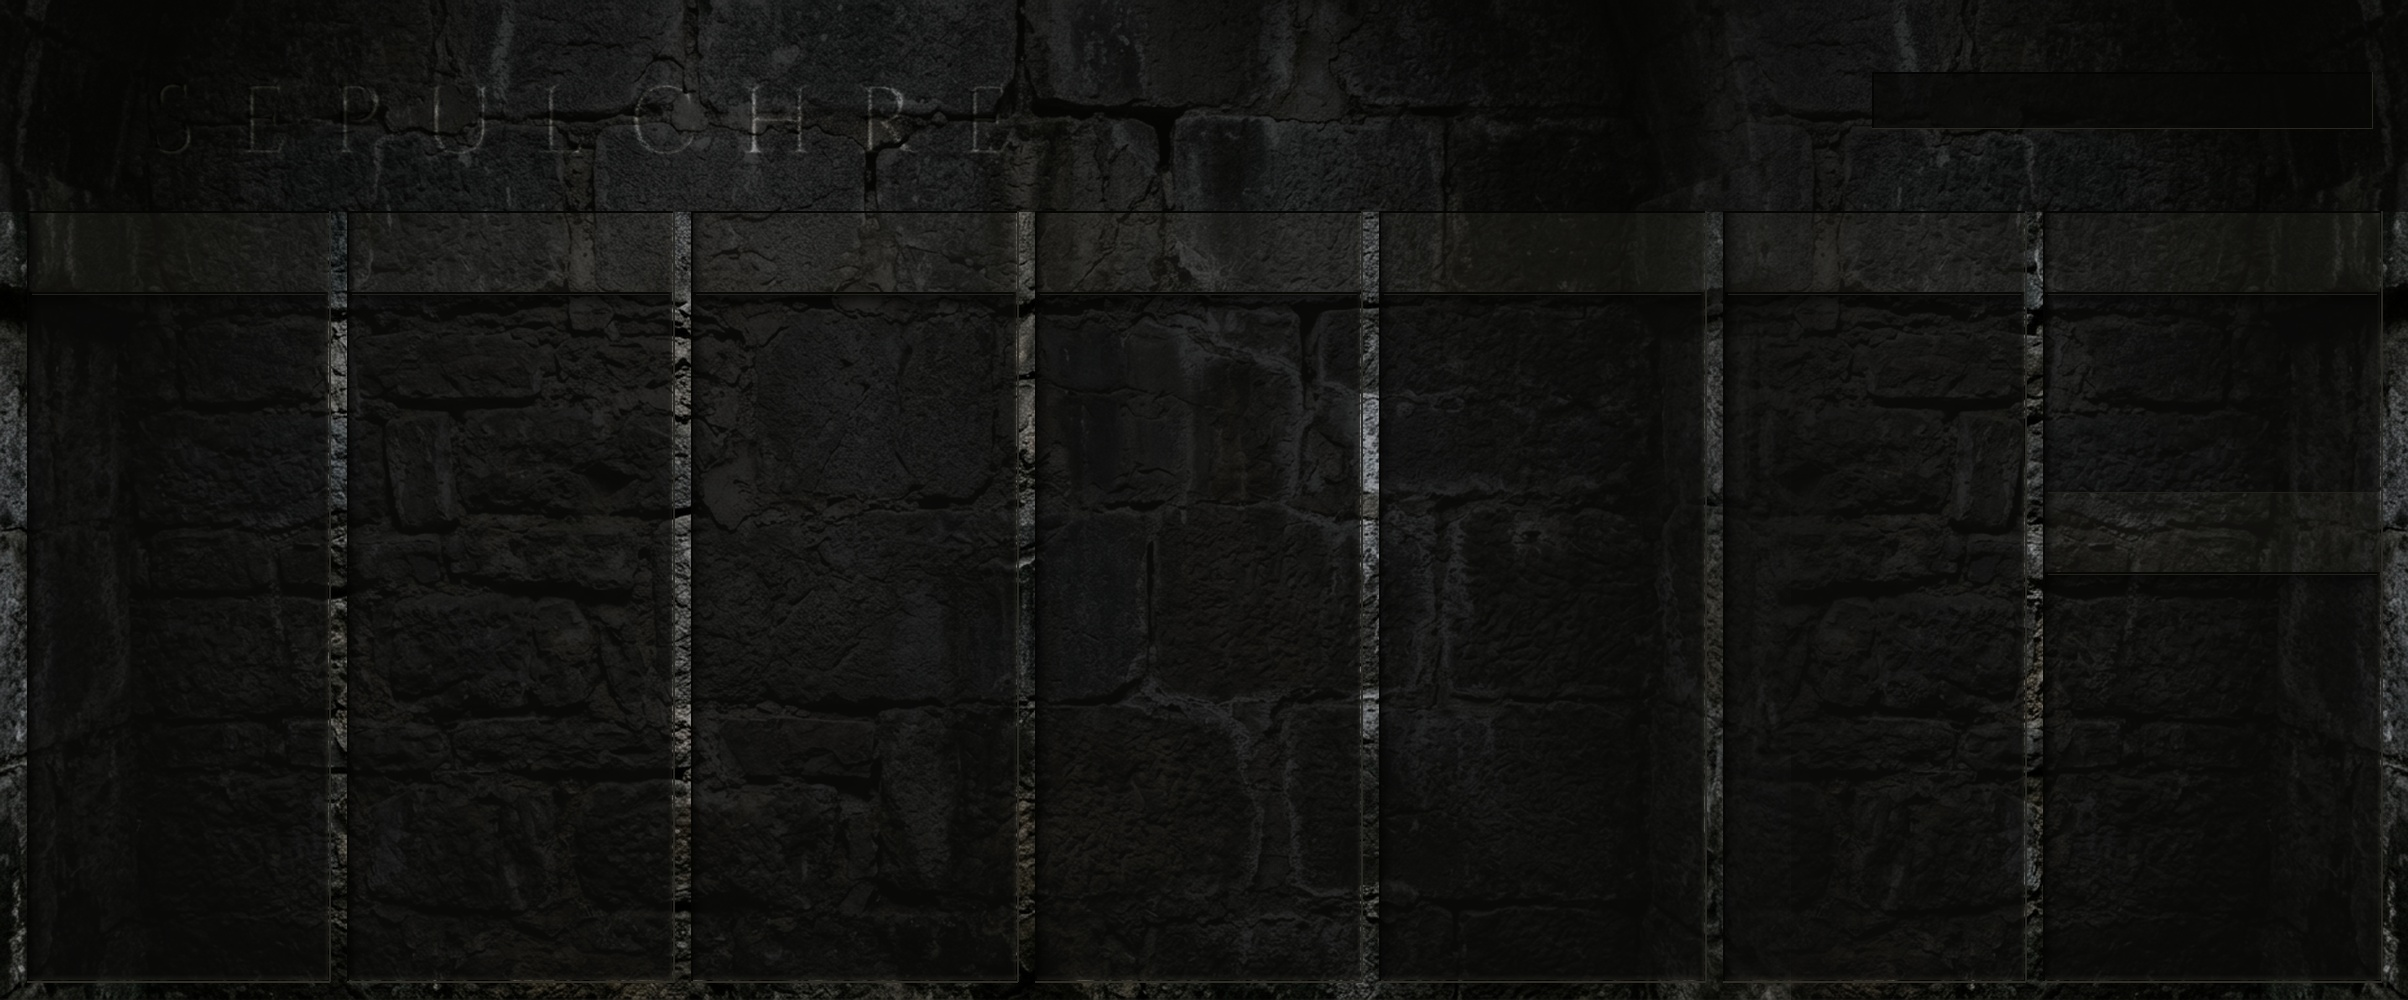
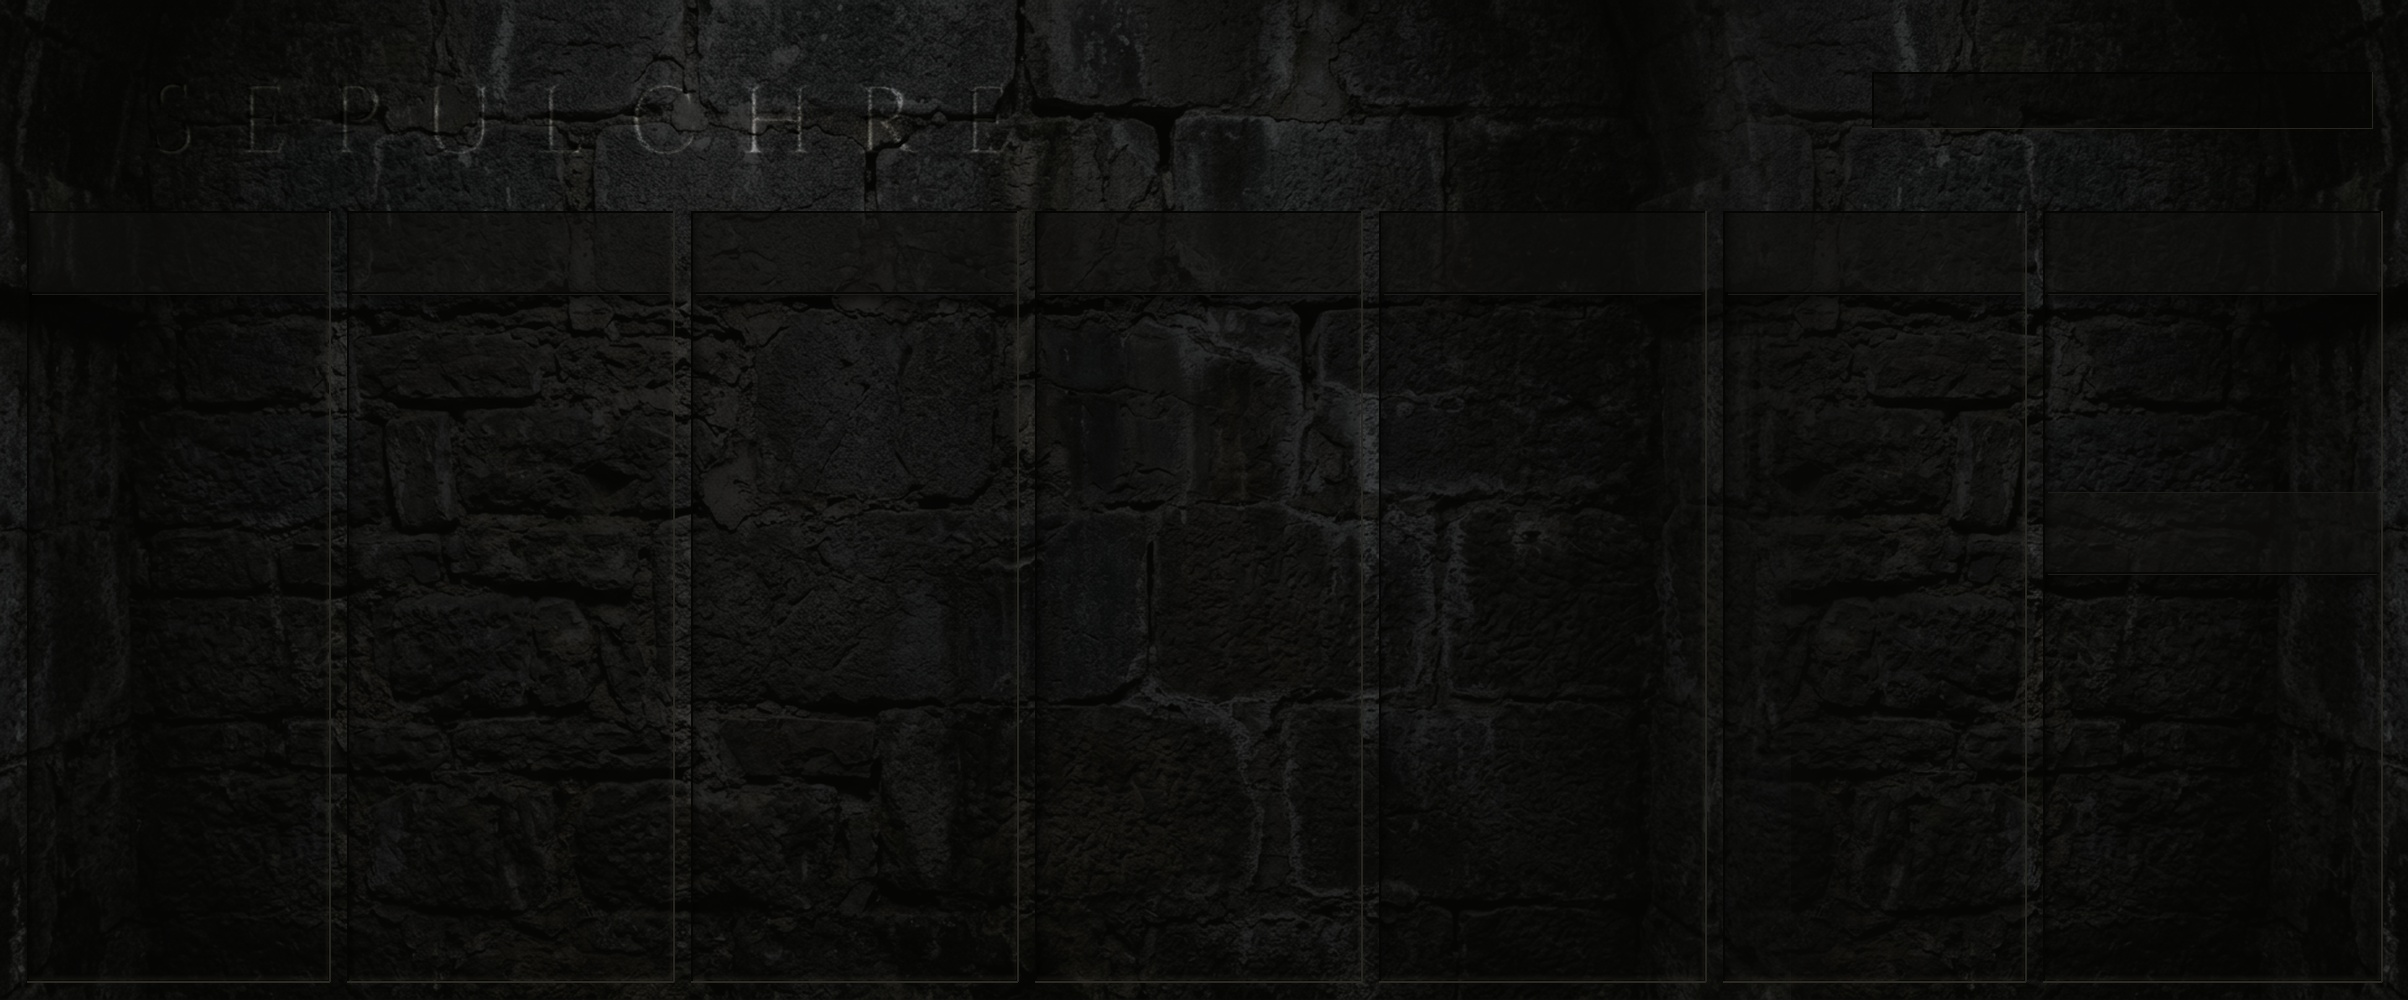
Round 62: Full-window uniform atmospheric dark wash with chiseled cutout letters

diff --git a/REVIEW.md b/REVIEW.md
@@ -3931,26 +3931,15 @@ A Python mock of the full UI (DejaVu standing in for Bahnschrift) was shown to D
 
 `verify_jsfx.py` passes 8/8. `sepulchre_ui.jsfx-inc` is 274 lines. Total: 1,693.
 
-### For Antigravity (Round 62)
-1. Deploy, including `sepulchre_bg.jpg`, then recompile.
-2. **The priority is a real REAPER FX-window screenshot**, at 100% and at a larger window size. We need it to check:
-   - text contrast on the title plates and in the preset niche;
-   - the moss and roots don't make any label or value hard to read;
-   - the candle LEDs and the dried-blood toggles read clearly as on and off;
-   - the bypass dimming (28%) still reads.
-   If you can't capture the real window, say so plainly: no composites or mock-ups.
-3. Run the full test suite to confirm nothing functional moved.
-
----
-
 ## Round 62 — Antigravity: Photorealistic Decrepit Crypt Redesign & Regression Verification
 
 ### 1. Aesthetic Rework (`sepulchre_bg.jpg`, 2408×1000)
-Devin noted that Claude's procedural Round 61 background looked "a little cartoony" and asked to make it look better and more decrepit/tomb/sepulchre-like. Follow-up feedback requested removing the separate lighter stone background block behind the "SEPULCHRE" logo (so the text is carved directly into the continuous wall masonry) and adding opacity/texture to the pedal area to eliminate the "1st semester graphic design boxy" look.
+Devin noted that Claude's procedural Round 61 background looked "a little cartoony" and asked to make it look better and more decrepit/tomb/sepulchre-like. Follow-up feedback requested removing the separate lighter stone background block behind the "SEPULCHRE" logo, extending the transparent dark overlay continuously down the entire window (rather than only the top section), and adding opacity/texture to the pedal area to eliminate the "1st semester graphic design boxy" look.
 
 **Root causes identified & fixed:**
-- **Direct Stone Chisel ("SEPULCHRE"):** Removed the separate rectangular stone patch behind the logo. The monumental Roman V-cut serif lettering is now chiseled directly into the continuous subterranean masonry wall, with the actual granite blocks, mortar fissures, and damp mineral weathering running uninterrupted across and behind the carving.
-- **Translucent Pedal / Niche Cavities (De-boxing the 7 columns):** Rather than 100% opaque solid black cardboard boxes, the 7 niches now have a ~78% dark atmospheric charcoal wash over the stone masonry. The authentic stone wall texture and mortar lines subtly breathe through behind the pedal controls, sliders, and faders.
+- **Full-Window Continuous Dark Wash (y: 0..1000, x: 0..2408):** Extended the dark atmospheric overlay across the entire canvas ($y = 0..1000$). This completely removes the horizontal boundary seam at $y = 212$ between the top header and the columns below.
+- **Direct Stone Cutout Carving ("SEPULCHRE"):** Removed any localized patch or box behind the logo. The monumental Roman Cinzel caps are cut out directly from the 65% dark wash (overlay alpha drops to 0 inside letterforms), allowing the lighter raw granite stone wall texture to shine cleanly through the letters. Chisel depth is rendered via vector inner shadow (top/left) and illuminated stone rim (bottom/right).
+- **Translucent Pedal / Niche Cavities (De-boxing the 7 columns):** Rather than 100% opaque solid black cardboard boxes, the 7 niches sit naturally within the continuous dark wash, receiving an additional 35% cavity shadow ($RGB \approx 10..14$) so that the raw masonry texture subtly breathes through while keeping faders, labels, and switches at high contrast.
 - **Organic Ambient Occlusion:** Soft graduated cavity drop shadows from the top (22 px) and left (14 px) with natural lit stone sill reflections replace the harsh 1-pixel CSS-style vertical borders.
 - **Refined Organic Controls (`sepulchre_ui.jsfx-inc`):**
   - **Choice Buttons (`ui_seg`):** Replaced the stark solid white 90° rectangles with softened aged-bone tablets (`#C4B79D` / `c_plate`) featuring chamfered corners and subtle inner chisel bevels.

diff --git a/reviews/round62_antigravity.md b/reviews/round62_antigravity.md
@@ -1,11 +1,12 @@
 ## Round 62 — Antigravity: Photorealistic Decrepit Crypt Redesign & Regression Verification
 
 ### 1. Aesthetic Rework (`sepulchre_bg.jpg`, 2408×1000)
-Devin noted that Claude's procedural Round 61 background looked "a little cartoony" and asked to make it look better and more decrepit/tomb/sepulchre-like. Follow-up feedback requested removing the separate lighter stone background block behind the "SEPULCHRE" logo (so the text is carved directly into the continuous wall masonry) and adding opacity/texture to the pedal area to eliminate the "1st semester graphic design boxy" look.
+Devin noted that Claude's procedural Round 61 background looked "a little cartoony" and asked to make it look better and more decrepit/tomb/sepulchre-like. Follow-up feedback requested removing the separate lighter stone background block behind the "SEPULCHRE" logo, extending the transparent dark overlay continuously down the entire window (rather than only the top section), and adding opacity/texture to the pedal area to eliminate the "1st semester graphic design boxy" look.
 
 **Root causes identified & fixed:**
-- **Direct Stone Chisel ("SEPULCHRE"):** Removed the separate rectangular stone patch behind the logo. The monumental Roman V-cut serif lettering is now chiseled directly into the continuous subterranean masonry wall, with the actual granite blocks, mortar fissures, and damp mineral weathering running uninterrupted across and behind the carving.
-- **Translucent Pedal / Niche Cavities (De-boxing the 7 columns):** Rather than 100% opaque solid black cardboard boxes, the 7 niches now have a ~78% dark atmospheric charcoal wash over the stone masonry. The authentic stone wall texture and mortar lines subtly breathe through behind the pedal controls, sliders, and faders.
+- **Full-Window Continuous Dark Wash (y: 0..1000, x: 0..2408):** Extended the dark atmospheric overlay across the entire canvas ($y = 0..1000$). This completely removes the horizontal boundary seam at $y = 212$ between the top header and the columns below.
+- **Direct Stone Cutout Carving ("SEPULCHRE"):** Removed any localized patch or box behind the logo. The monumental Roman Cinzel caps are cut out directly from the 65% dark wash (overlay alpha drops to 0 inside letterforms), allowing the lighter raw granite stone wall texture to shine cleanly through the letters. Chisel depth is rendered via vector inner shadow (top/left) and illuminated stone rim (bottom/right).
+- **Translucent Pedal / Niche Cavities (De-boxing the 7 columns):** Rather than 100% opaque solid black cardboard boxes, the 7 niches sit naturally within the continuous dark wash, receiving an additional 35% cavity shadow ($RGB \approx 10..14$) so that the raw masonry texture subtly breathes through while keeping faders, labels, and switches at high contrast.
 - **Organic Ambient Occlusion:** Soft graduated cavity drop shadows from the top (22 px) and left (14 px) with natural lit stone sill reflections replace the harsh 1-pixel CSS-style vertical borders.
 - **Refined Organic Controls (`sepulchre_ui.jsfx-inc`):**
   - **Choice Buttons (`ui_seg`):** Replaced the stark solid white 90° rectangles with softened aged-bone tablets (`#C4B79D` / `c_plate`) featuring chamfered corners and subtle inner chisel bevels.
